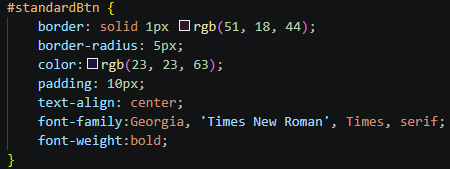
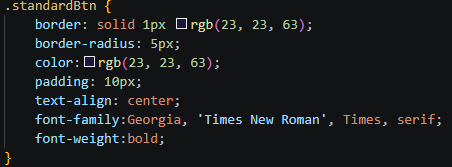
changes

diff --git a/index.html b/index.html
@@ -22,6 +22,7 @@
                 <li><a href="#colorContainer">Färgschema</a></li>
             </ul>
     </nav>
+    <div class="borderC">
 <h1>Vivis Styleguide exempel på h1 rubrik</h1>
 <p>Kod för h1 rubrik i HTML &lt;h1&gt;Rubrik&lt;/h1&gt;<br>
 I CSS filen används<br> font-size: 3.25em;<br>
@@ -38,7 +39,10 @@ I CSS filen används font-size:2.25em;
 <h4>Exempel h4 rubrik</h4>
 <p>Kod för h4 rubrik i HTML &lt;h4&gt;Rubrik&lt;/h4&gt;
     <br>I CSS filen används font-size: 1.75em;</p>
+    </div>
 
+
+    <div class="borderC">
 <h4>All flytande brödtext</h4>
 <p>All vanlig brödtext ska ha dessa inställningar i HTML. 
     Kod exempel för den flytande brödtexten:</p>
@@ -47,8 +51,10 @@ I CSS filen används font-size:2.25em;
     <br>'Lucida Grande', 'Lucida Sans Unicode', Geneva, Verdana, sans-serif; 
     <br>font-size:16px;<br> 
     margin-left: 5&#37;; &rbrace;</p>
+    </div>
 
-<div id="divBtns">
+
+<div id="divBtns" class="borderC">
 <h4>Knappar</h4>
   <p>Standardknappar ska ha följande utseende med kodexempel:</p>
 <img src="StandardButton.png" alt="bild på kod för standardknapp">
@@ -60,10 +66,10 @@ background-color:rgb(170, 230, 200);</p>
 <p>Den negativa knappen har samma inställningar som standard men andra färger som:<br>
  background-color:rgb(160, 25, 16);
     color: white;</p>
-        <button id="standardBtn">Standardknapp</button>
-<button id="printBtn">Skriv ut</button>
-<button id="saveBtn">Spara, OK</button>
-<button id="negativeBtn">Avbryt, Stäng, ta bort</button>
+        <button class="standardBtn">Standardknapp</button>
+<button class="printBtn">Skriv ut</button>
+<button class="saveBtn">Spara, OK</button>
+<button class="negativeBtn">Avbryt, Stäng, ta bort</button>
 </div>
 
 <div id="divsTable">
@@ -124,12 +130,15 @@ background-color:rgb(170, 230, 200);</p>
 <img src="ManyColumns.png" alt="bild på många kolumner">
 </div>
 
+<div class="borderC">
 <h3 id="navigation">Navigation</h3>
 <p>Kodexempel för navigation i Html:</p>
 <p>&lt;nav&gt;
 &lt;a href="#divBtns"&gt;Knappar |&lt;/a/&gt;
 &lt;/nav&gt;</p>
+</div>
 
+<div class="borderC">
 <h3 id="msgWarn">Meddelanden/Varningar</h3>
 <div class="alert">
     <span class="closeBtn" onclick="this.parentElement.style.display=`none`;">&times;
@@ -137,20 +146,24 @@ background-color:rgb(170, 230, 200);</p>
 <div class="negativeAlert">
     <span class="closeBtn" onclick="this.parentElement.style.display=`none`;">&times;
     </span>Varning!<br> Stäng ruta</div>
+</div>
 
-    <h3 id="loadHead">Laddningsindikator</h3>
+  <div class="borderC">
+<h3 id="loadHead">Laddningsindikator</h3>
     <p>Så här ser laddnings symbolen ut, men texten kan komma att ändras i framtiden</p>
     <img id="loadImg" src="loadImg.png" alt="bild på laddningsindikator">
+ <button id="loadingBtn">Klicka här för kodexempel till laddningsindikatorn</button>
+    <img id="loadCode" src="loadCode.png" alt="Kodexempel">
+  </div>
+
     <div id="loaderContainer">
         <div id="loader" class="loader"></div>
         <p id="loadingText">Sidan laddas... Håll ut!</p>
     </div>
     <div style="display:none;"id="isLoading" class="animate-bottom">
     </div>
-
-    <button id="loadingBtn">Klicka här för kodexempel till laddningsindikatorn</button>
-    <img id="loadCode" src="loadCode.png" alt="Kodexempel">
-    <div id="panel">
+   
+    <div id="panel" class="borderC">
         <h3>Paneler</h3>
         <p>Finns 3 olika varianter på paneler. Den första neutrala har en ljusgrå bakgrund.
             Det passar bra till en kalender eller anslagstavla.
@@ -161,13 +174,38 @@ background-color:rgb(170, 230, 200);</p>
         </div>
         
     </div>
-    <div id="formsContainer">
+    <div id="formsContainer" class="borderC">
         <h3>Formulär</h3>
+        <form>
+            <p>Här kan man se exempel på hur man stylar ett formulär. Man kan använda en label 
+                för texten över formuläret i samma stil som flytande text. Fälten kan man ha 
+                vita och neutrala, enkelt och tydligt för användaren. Knapparna ska vara
+            enligt standard knappen och följa mönstret för positiva knappen för att spara.
+        Den standard negativa knappen för att avbryta/rensa formulär. 
+        Se avsnittet om <a href="#divBtns">knappar</a></p>
+            <label for="firstName">Förnamn:</label><br>
+            <input type="text" id="firstName" name="firstName"><br>
+            <input class="saveBtn" id="formSaveBtn" type="submit" value="Spara">
+            <button class="negativeBtn">Avbryt</button>
+        </form>
     </div>
     <div id="colorContainer">
          <h3 id="colorSchema">Färgschemat</h3>
-        <i class="bi bi-balloon-fill"></i>
-        <p>Färglägg ballongen</p>
+         <p>Se färg på ballongen bredvid. Färgerna kan komma att ändras till ljusgrå bakgrund som färgen: rgb(201, 211, 206)</p>
+        <p><i class="bi bi-balloon-fill" style="color:rgb(235, 206, 227)"></i> 
+            Bakgrundsfärgen: rgb(235, 206, 227);</p>
+        <p><i class="bi bi-balloon-fill" style="color:rgb(152, 207, 180);"></i>
+        Ljusgrön färg till positiva knappar och panel: rgb(152, 207, 180);</p>
+    
+        <p><i class="bi bi-balloon-fill" style="color:rgb(23, 23, 63);"></i> 
+    Mörkblå färg till fonten för vanlig text rgb(23, 23, 63);
+samt till border och font färg till knappar</p>
+<p><i class="bi bi-balloon-fill" style="color:rgb(160, 25, 16)"></i>
+Röda färgen till de negativa knapparna och paneler rgb(160, 25, 16);</p>
+<p><i class="bi bi-balloon-fill" style="color:lightgray;"></i>
+    Ljusgrå färg till panel och navigationsmeny: rgb(211, 211, 211);</p>
+    <p><i class="bi bi-balloon-fill" style="color:rgb(59, 71, 128)"></i>Blå alert knappens färg: rgb(59, 71, 128);</p>
+    
     </div>
    
     </div>

diff --git a/style.css b/style.css
@@ -1,6 +1,6 @@
 #container {
     margin: 10px;
-    padding: 10px;
+    padding: 20px;
     display: flex;
     flex-direction: column;
     width: 100vw;
@@ -34,14 +34,15 @@ body {
 #regularText {
     background-color: black;
     color:aqua;
+    max-width: 50vw;
+    padding: 5px;
 }
 #divBtns {
     padding: 10 px;
     flex-direction: column;
-
 }
-#standardBtn {
-    border: solid 1px rgb(51, 18, 44);
+.standardBtn {
+    border: solid 1px rgb(23, 23, 63);
     border-radius: 5px;
     color:rgb(23, 23, 63);
     padding: 10px;
@@ -49,16 +50,16 @@ body {
     font-family:Georgia, 'Times New Roman', Times, serif;
     font-weight:bold;
 }
-#printBtn {
-    border: solid 1px rgb(51, 18, 44);
+.printBtn {
+    border: solid 1px rgb(23, 23, 63);
     border-radius: 5px;
     color:rgb(23, 23, 63);
     padding: 10px;
     text-align: center;
     font-family:Georgia, 'Times New Roman', Times, serif;
 }
-#saveBtn {
-    border: solid 1px rgb(51, 18, 44);
+.saveBtn {
+    border: solid 1px rgb(23, 23, 63);
     border-radius: 5px;
     background-color:rgb(170, 230, 200);
     color: rgb(23, 23, 63);
@@ -67,14 +68,26 @@ body {
     font-family:Georgia, 'Times New Roman', Times, serif;
     font-weight: bold;
 }
-#negativeBtn {
-    border: solid 1px rgb(51, 18, 44);
+.negativeBtn {
+    border: solid 1px rgb(23, 23, 63);
     background-color:rgb(160, 25, 16);
     color: white;
     padding: 10px;
     text-align: center;
     font-family:Georgia, 'Times New Roman', Times, serif;
      font-weight: bold;
+}
+.saveBtn:active {
+    background-color: rgb(152, 207, 180);
+}
+.standardBtn:active {
+    background-color:antiquewhite;
+}
+.printBtn:active {
+    background-color:antiquewhite;
+}
+.negativeBtn:active {
+    background-color: rgb(138, 22, 14);
 }
 .nameTable {
     border-collapse: collapse;
@@ -98,18 +111,25 @@ th, td {
 }
 #divsTable {
     margin: 20 px;
-    padding: 15px;
+    padding: 30px;
+}
+#navigation {
+    padding: 50px;
+}
+#msgWarn {
+    padding: 30px;
 }
 .alert {
-    padding: 10px;
+    padding: 20px;
     background-color:rgb(59, 71, 128);
+    font-size: 15px;
     color:white;
     margin-bottom: 15px;
-    width: 8vw;
+    max-width: fit-content;
     border: 2px solid black;
 }
 .closeBtn {
-    margin-left: 10px;
+    margin-left: 15px;
     color: white;
     font-weight: bold;
     float: right;
@@ -124,8 +144,8 @@ th, td {
     background-color:rgb(160, 25, 16);
     color: white;
     margin-bottom: 15px;
-    width: 8vw;
     border: 2px solid black;
+    max-width: fit-content;
 }
 #loaderContainer {
     position: absolute;
@@ -138,7 +158,7 @@ th, td {
     gap: 20px;
 }
 #loader {
-    position: relative;
+    position: absolute;
     z-index: 1;
     border: 16px solid #f3f3f3;
     border-top: 16px solid rgb(59, 71, 128);
@@ -162,7 +182,7 @@ th, td {
    display: none;
 }
 .animate-bottom {
-    position: relative;
+    position: absolute;
     -webkit-animation-name: animatebottom;
     -webkit-animation-duration: 1s;
     animation-name: animatebottom;
@@ -205,10 +225,11 @@ max-width: 80vw;
     background-color:lightgray;
 }
 #positivePanel {
-    background-color:lightgreen;
+    background-color:rgb(152, 207, 180);
 }
 #negativePanel {
-    background-color: rgb(240, 98, 98);
+    background-color: rgb(160, 25, 16);
+    color: white;
 }
 .navClass {
     background-color:lightgrey;
@@ -217,7 +238,8 @@ max-width: 80vw;
     padding: 0;
     list-style-type: none;
     overflow: hidden;
-    float: right;
+    float: left;
+
     li {
         float: left;
         flex-direction: column;
@@ -236,4 +258,16 @@ max-width: 80vw;
     li:last-child {
         border-right: none;
     }
+}
+#formsContainer {
+    max-width: 400px;
+}
+.borderC {
+    margin: 20px;
+    border-bottom: 5px solid rgb(138, 132, 136);
+}
+#colorContainer {
+    font-size: 20px;
+    background-color: white;
+    max-width: 600px;
 }
